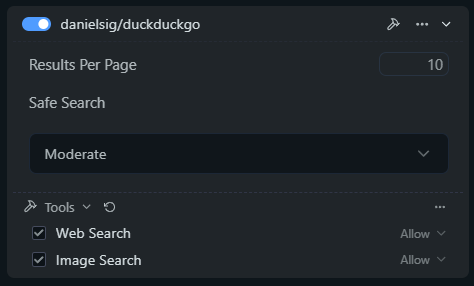
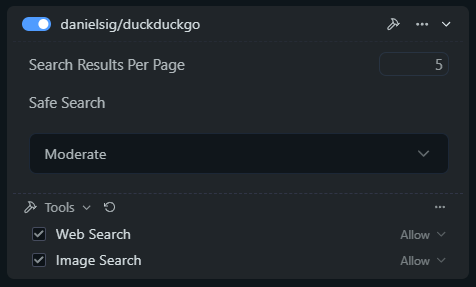
Fixed a few bugs

diff --git a/src/toolsProvider.ts b/src/toolsProvider.ts
@@ -1,6 +1,10 @@
 import { tool, Tool, ToolsProviderController } from "@lmstudio/sdk";
 import { z } from "zod";
 
+const headers = {
+	'User-Agent': 'Mozilla/5.0 (Windows NT 10.0; Win64; x64) AppleWebKit/537.36 (KHTML, like Gecko) Chrome/58.0.3029.110 Safari/537.3',
+};
+
 export async function toolsProvider(ctl:ToolsProviderController):Promise<Tool[]> {
 	const tools: Tool[] = [];
 
@@ -10,7 +14,7 @@ export async function toolsProvider(ctl:ToolsProviderController):Promise<Tool[]>
 		parameters: {
 			query: z.string().describe("The search query for finding web pages"),
 			page_size: z.number().int().min(1).max(10).optional().default(10).describe("Number of web results per page"),
-			safe_search: z.enum(["strict", "moderate", "off"]).optional().default("moderate").describe("Safe S"),
+			safe_search: z.enum(["strict", "moderate", "off"]).optional().default("moderate").describe("Safe Search"),
 			page: z.number().int().min(1).max(100).optional().default(1).describe("Page number for pagination"),
 		},
 		implementation: async ({ query, page_size, safe_search, page }, { status, warn, signal }) => {
@@ -27,6 +31,7 @@ export async function toolsProvider(ctl:ToolsProviderController):Promise<Tool[]>
 				const response = await fetch(url.toString(), {
 					method: "GET",
 					signal,
+					headers,
 				});
 				if (!response.ok) {
 					warn(`Failed to fetch search results: ${response.statusText}`);
@@ -39,9 +44,9 @@ export async function toolsProvider(ctl:ToolsProviderController):Promise<Tool[]>
 				const regex = /\shref="[^"]*(https?[^?&"]+)[^>]*>([^<]*)/gm;
 				let match;
 				while (links.length < page_size && (match = regex.exec(html))) {
-					const label = match[1].replace(/\s+/g, " ").trim();
+					const label = match[2].replace(/\s+/g, " ").trim();
 					const url = decodeURIComponent(match[1]);
-					if(!links.some(([existingUrl]) => existingUrl === url))
+					if(!links.some(([,existingUrl]) => existingUrl === url))
 						links.push([label, url]);
 				}
 				if (links.length === 0) {
@@ -67,13 +72,12 @@ export async function toolsProvider(ctl:ToolsProviderController):Promise<Tool[]>
 		description: "Search for images on DuckDuckGo using a query string and return a list of image URLs.",
 		parameters: {
 			query: z.string().describe("The search query for finding images"),
-			page_size: z.number().int().min(1).max(10).optional().default(10).describe("Number of web results per page"),
+			page_size: z.number().int().min(1).max(10).optional().default(10).describe("Number of image results per page"),
 			safe_search: z.enum(["strict", "moderate", "off"]).optional().default("moderate").describe("Safe Search"),
 			page: z.number().int().min(1).max(100).optional().default(1).describe("Page number for pagination"),
 		},
 		implementation: async ({ query, page_size, safe_search, page }, { status, warn, signal }) => {
 			status("Initiating DuckDuckGo image search...");
-
 			try {
 				// Step 1: Fetch the vqd token
 				const initialUrl = new URL("https://duckduckgo.com/");
@@ -84,6 +88,7 @@ export async function toolsProvider(ctl:ToolsProviderController):Promise<Tool[]>
 				const initialResponse = await fetch(initialUrl.toString(), {
 					method: "GET",
 					signal,
+					headers,
 				});
 
 				if (!initialResponse.ok) {
@@ -116,9 +121,7 @@ export async function toolsProvider(ctl:ToolsProviderController):Promise<Tool[]>
 				const searchResponse = await fetch(searchUrl.toString(), {
 					method: "GET",
 					signal,
-					headers: {
-						'User-Agent': 'Mozilla/5.0 (Windows NT 10.0; Win64; x64) AppleWebKit/537.36 (KHTML, like Gecko) Chrome/58.0.3029.110 Safari/537.3',
-					},
+					headers,
 				});
 
 				if (!searchResponse.ok) {
@@ -151,6 +154,7 @@ export async function toolsProvider(ctl:ToolsProviderController):Promise<Tool[]>
 			}
 		},
 	});
+
 
 	tools.push(duckDuckGoWebSearchTool);
 	tools.push(duckDuckGoImageSearchTool);

diff --git a/src/config.ts b/src/config.ts
@@ -5,11 +5,11 @@ export const configSchematics = createConfigSchematics()
 		"page_size",
 		"numeric",
 		{
-			displayName: "Results Per Page",
+			displayName: "Search Results Per Page",
 			min: 1,
 			max: 10,
 		},
-		10
+		5
 	)
 	.field(
 		"safe_search",

diff --git a/README.md b/README.md
@@ -23,3 +23,5 @@ The search tool has the following settings:
 With the plugin enabled, you can explicitly instruct the assistant to search the web or show you images but you can also ask a question to which one would normally need to search the web to give a proper answer and the assistant will use the tool accordingly.
 
 Pagination is also supported which allows the assistant to provide more results if needed.
+
+This plugin works well in combination with the [Visit Website Tool](https://github.com/danielsig/lms-plugin-visit-website) which can be used to extract basic content from URLs.
